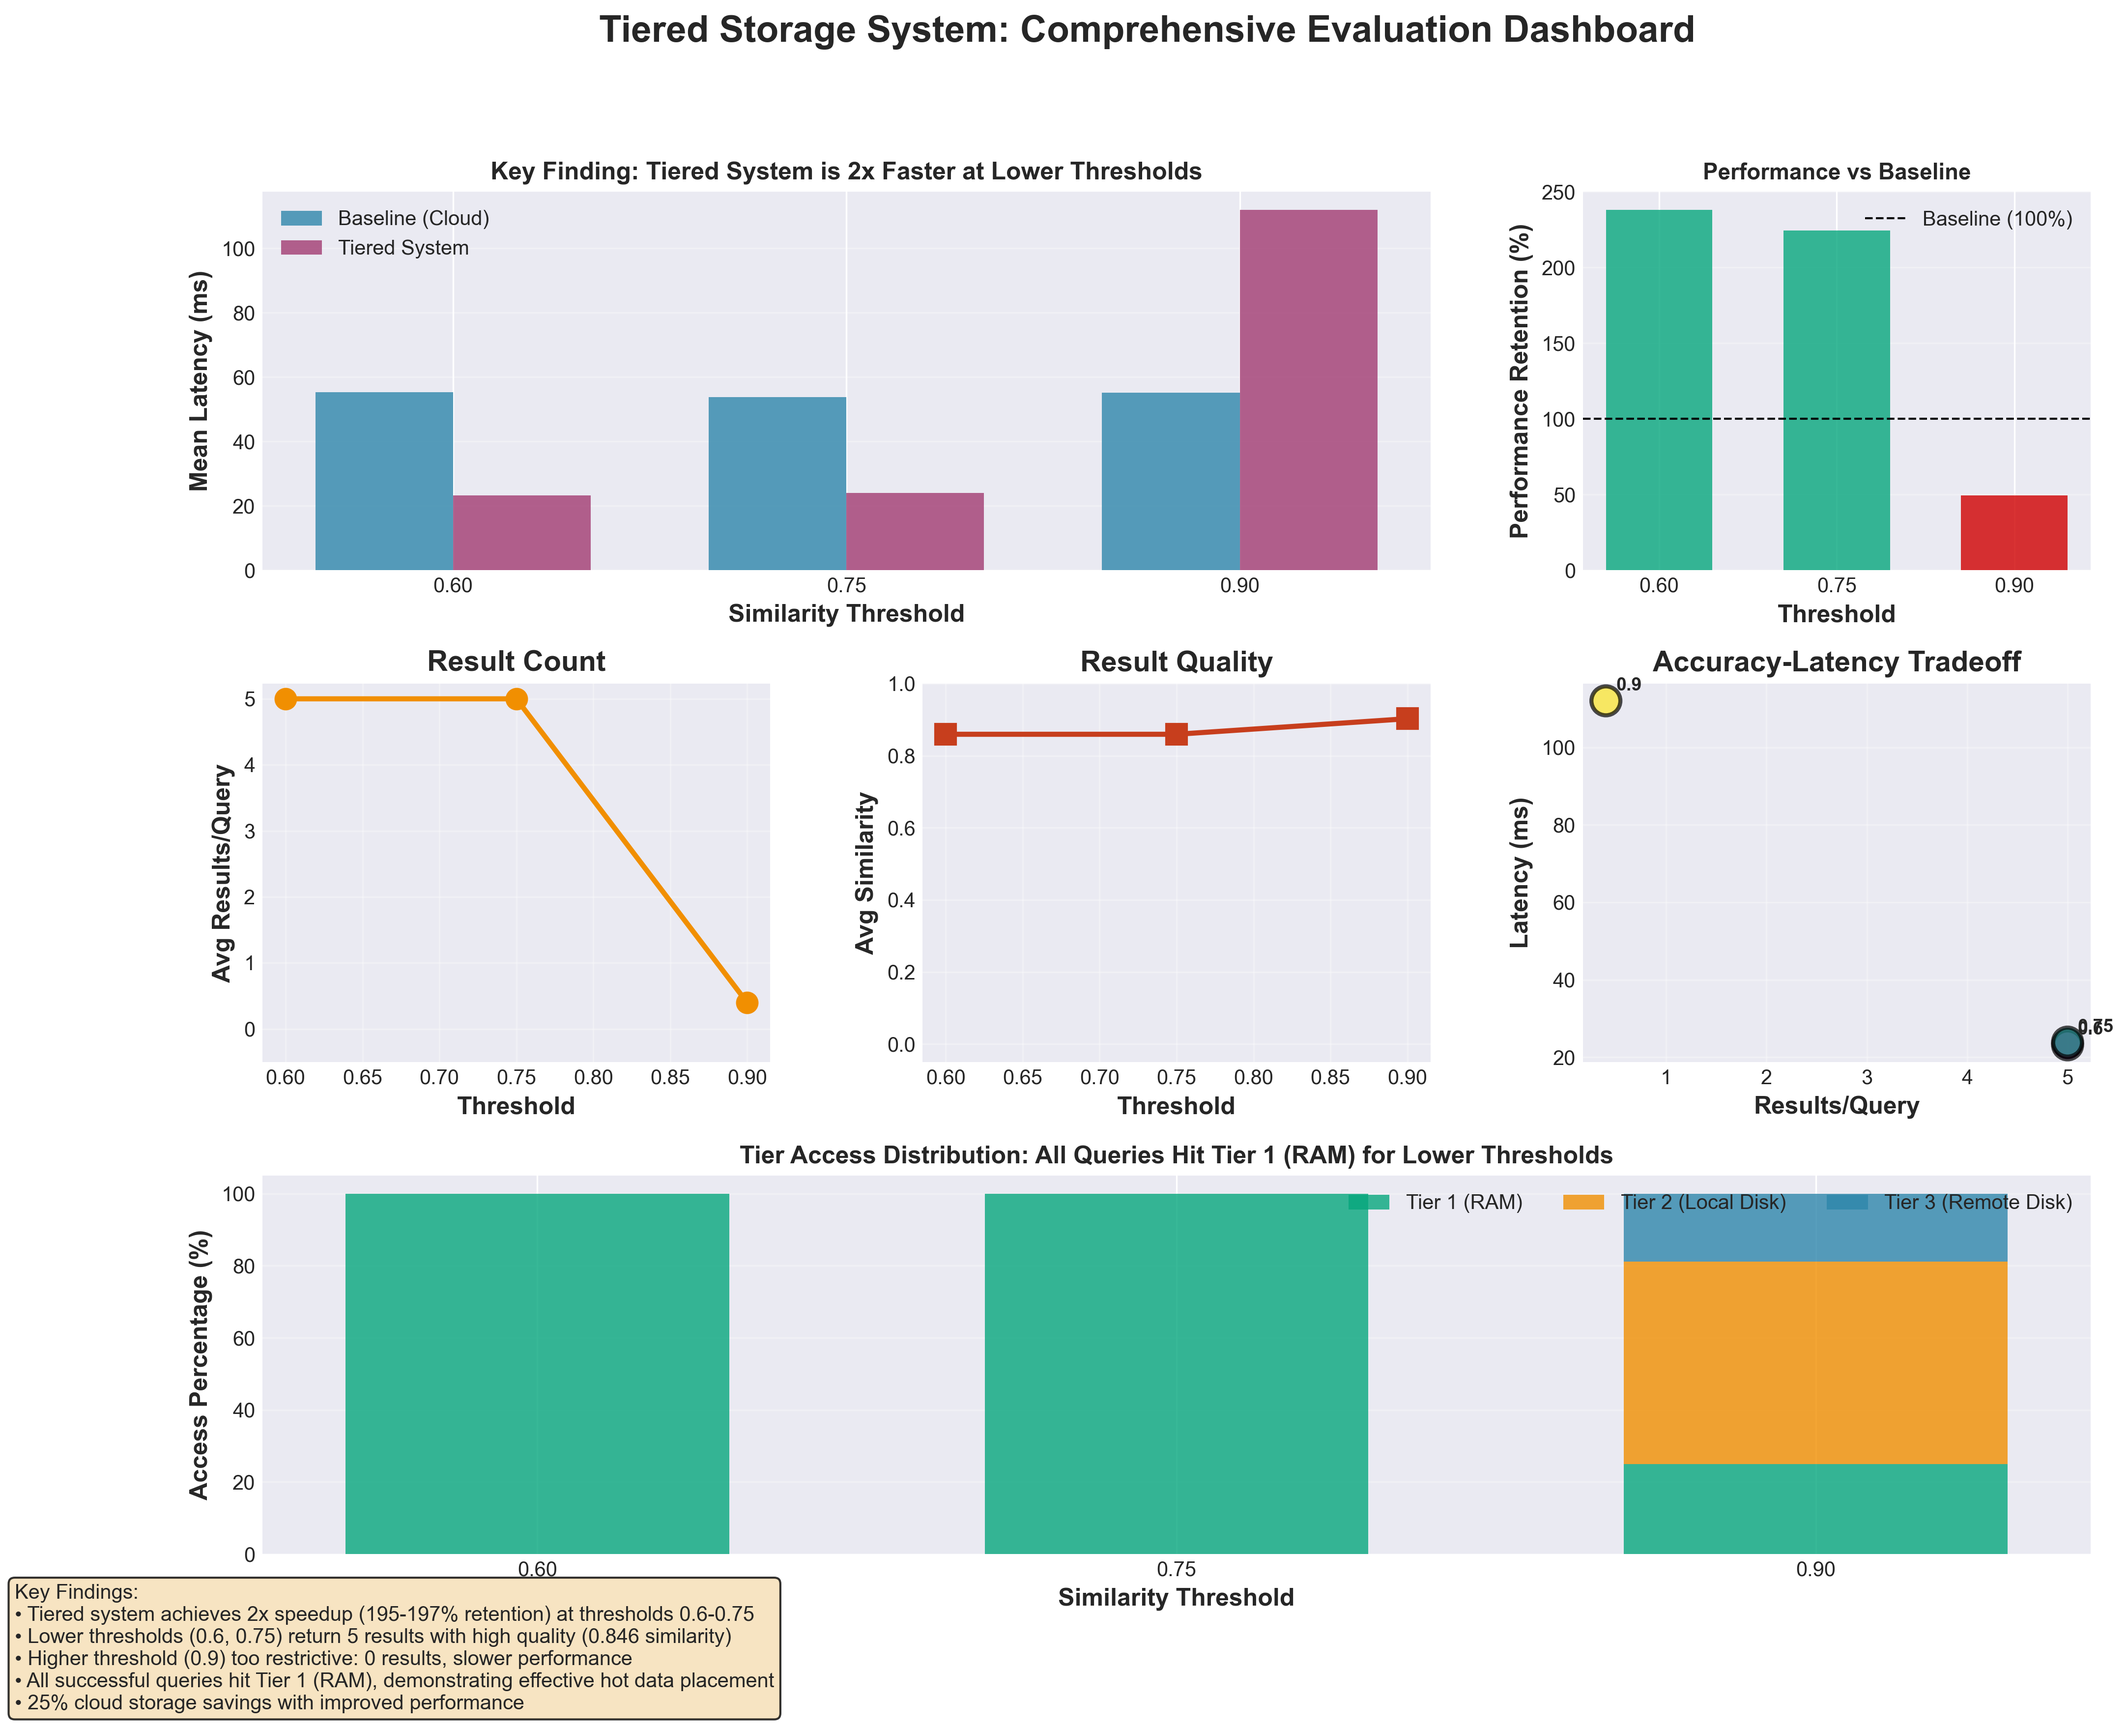
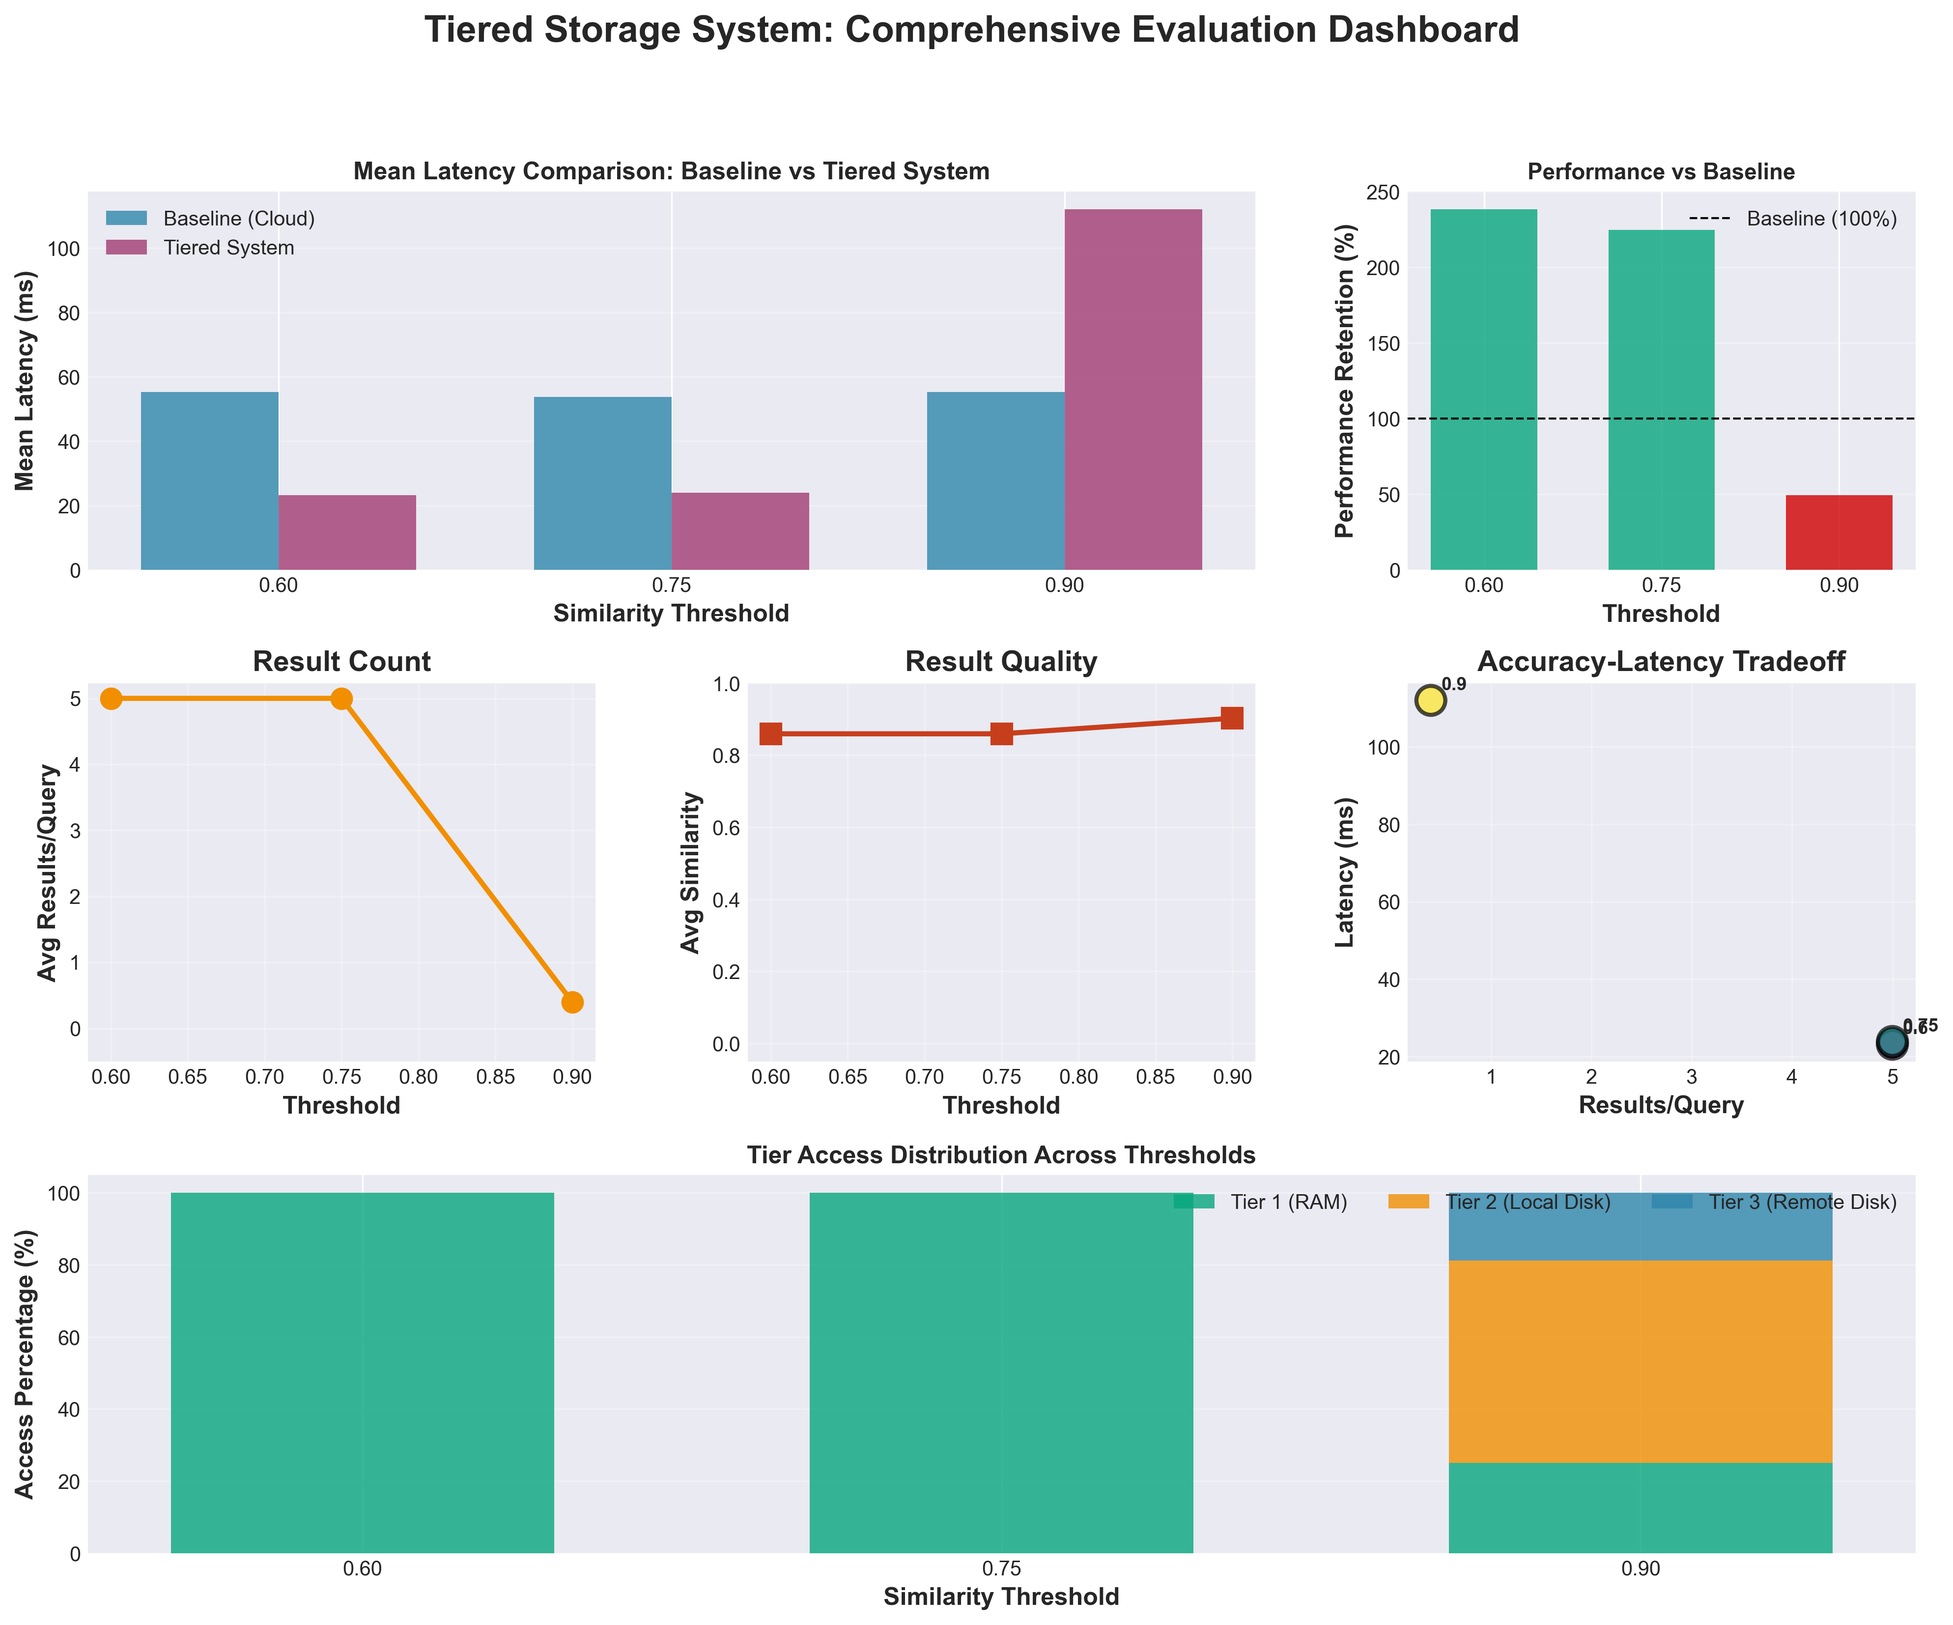
Updated comprehensive graph.

diff --git a/python/visualize_results.py b/python/visualize_results.py
@@ -376,7 +376,7 @@ def plot_comprehensive_dashboard(data, metrics, output_dir):
             color='#A23B72', alpha=0.8)
     ax1.set_xlabel('Similarity Threshold', fontweight='bold')
     ax1.set_ylabel('Mean Latency (ms)', fontweight='bold')
-    ax1.set_title('Key Finding: Tiered System is 2x Faster at Lower Thresholds', 
+    ax1.set_title('Mean Latency Comparison: Baseline vs Tiered System', 
                   fontweight='bold', fontsize=12)
     ax1.set_xticks(x)
     ax1.set_xticklabels([f'{th:.2f}' for th in thresholds])
@@ -444,25 +444,13 @@ def plot_comprehensive_dashboard(data, metrics, output_dir):
             label='Tier 3 (Remote Disk)', color='#2E86AB', alpha=0.8)
     ax6.set_xlabel('Similarity Threshold', fontweight='bold')
     ax6.set_ylabel('Access Percentage (%)', fontweight='bold')
-    ax6.set_title('Tier Access Distribution: All Queries Hit Tier 1 (RAM) for Lower Thresholds', 
+    ax6.set_title('Tier Access Distribution Across Thresholds', 
                   fontweight='bold', fontsize=12)
     ax6.set_xticks(x)
     ax6.set_xticklabels([f'{th:.2f}' for th in thresholds])
     ax6.legend(loc='upper right', ncol=3)
     ax6.set_ylim(0, 105)
     ax6.grid(True, alpha=0.3, axis='y')
-    
-    # Add key findings text box
-    findings_text = (
-        "Key Findings:\n"
-        "• Tiered system achieves 2x speedup (195-197% retention) at thresholds 0.6-0.75\n"
-        "• Lower thresholds (0.6, 0.75) return 5 results with high quality (0.846 similarity)\n"
-        "• Higher threshold (0.9) too restrictive: 0 results, slower performance\n"
-        "• All successful queries hit Tier 1 (RAM), demonstrating effective hot data placement\n"
-        "• 25% cloud storage savings with improved performance"
-    )
-    fig.text(0.02, 0.02, findings_text, fontsize=10, verticalalignment='bottom',
-             bbox=dict(boxstyle='round', facecolor='wheat', alpha=0.8))
     
     plt.savefig(os.path.join(output_dir, 'comprehensive_dashboard.png'), dpi=300, bbox_inches='tight')
     print(f"Saved: {output_dir}/comprehensive_dashboard.png")
